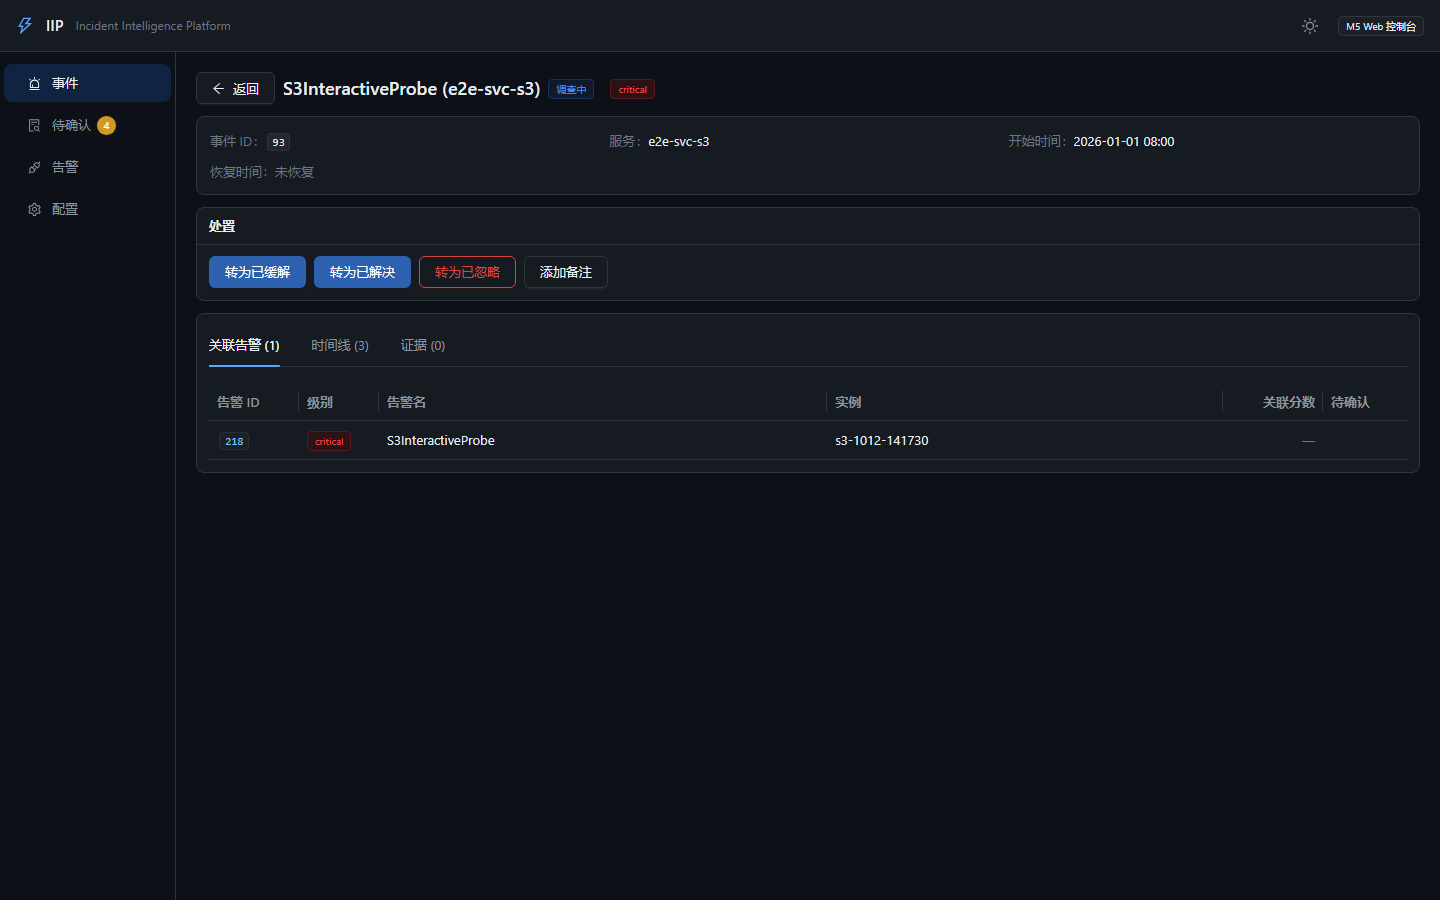
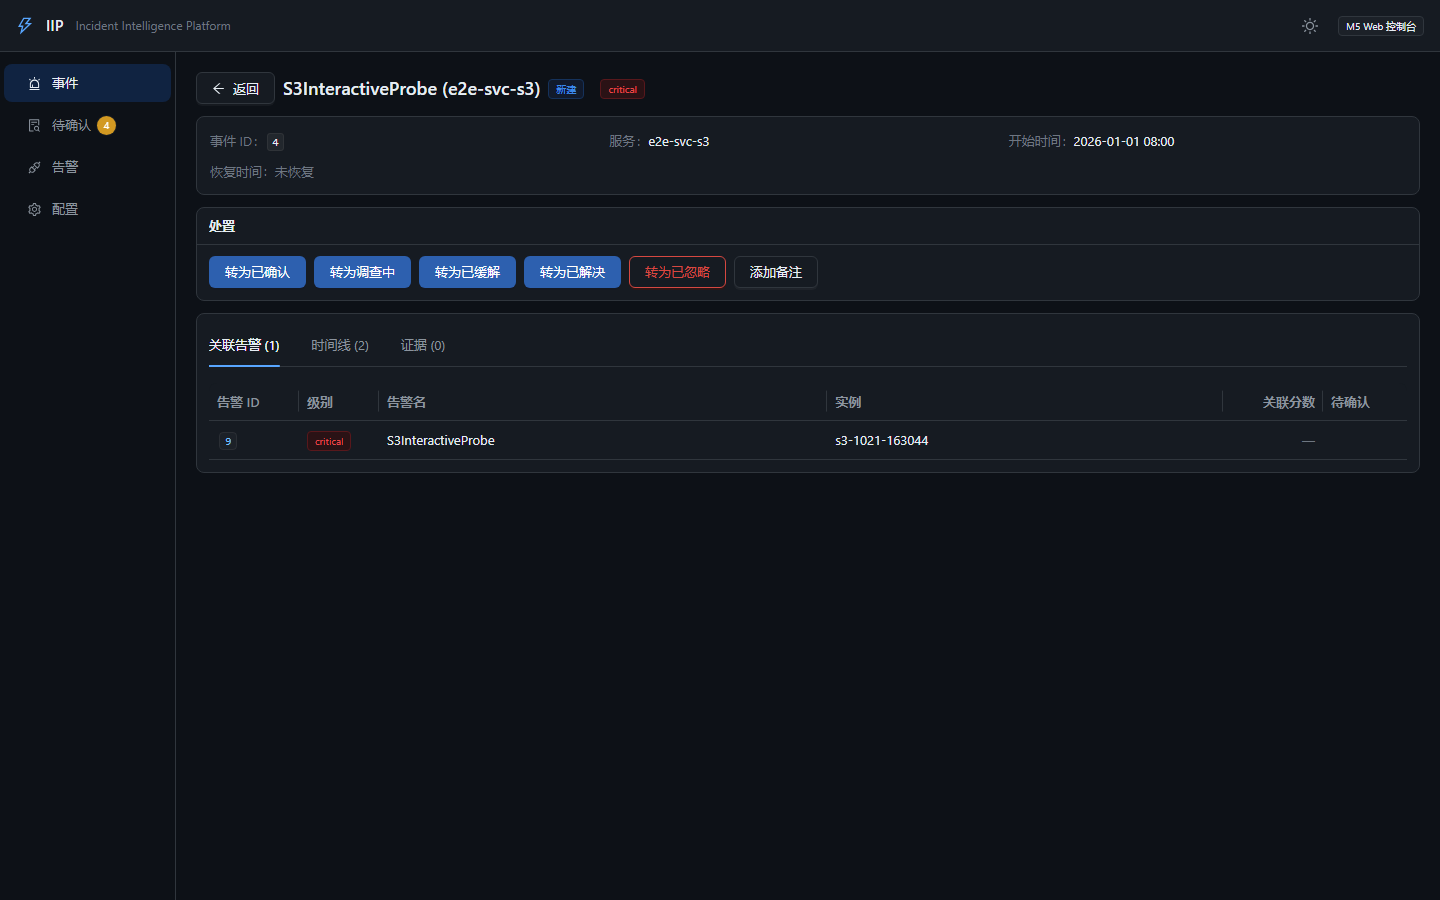
fix(verify): 修 verify-images 两处判据假红 + IIP_HTTP_PORT 驱动端口 override
- T7.5 接线判据改按包聚合读产品源码：T7.8 拆文件后 flag 注册搬去
  config_load.go、装配搬去 worker_registry.go，钉死 config.go/main.go
  的判据全线假红（4 条红而 grep 全源一抓就着）
- worker --help 判据不再断言 rc==0：pflag ContinueOnError 的 ErrHelp
  语义是 exit 1，usage 完整打印即产品正确，只绑两行 flag 内容
- IIP_HTTP_PORT 现驱动 compose 端口映射（临时 override，down 后删）：
  8080 被 OsSwitch RTS 原型占用时可选端口跑完整容器链路
- .gitignore 补 _*.json（_verify_runtime.json 与 _*.txt 同类运行产物）

验证：98 断言同卷/净卷两遍全绿；check-binaries PASS；
verify-runtime 45 PASS/0 FAIL/0 BLOCKED

diff --git a/scripts/verify-images.py b/scripts/verify-images.py
@@ -158,8 +158,40 @@ def docker(*args: str, timeout: int = 900):
     return run([DOCKER, *args], timeout=timeout)
 
 
+# HTTP_PORT != 8080 时由 _ensure_port_override() 生成；为 None 时 compose()
+# 退化为只用基文件，与历史行为逐字节一致。
+OVERRIDE_FILE = None
+
+
 def compose(*args: str, timeout: int = 900):
-    return docker("compose", "-f", COMPOSE_FILE, *args, timeout=timeout)
+    files = ["-f", COMPOSE_FILE]
+    if OVERRIDE_FILE:
+        files += ["-f", OVERRIDE_FILE]
+    return docker("compose", *(files + list(args)), timeout=timeout)
+
+
+def _ensure_port_override() -> None:
+    """HTTP_PORT != 8080 时生成 compose override，驱动宿主机端口映射。
+
+    背景（2026-10-21 S7）：8080 被用户另一个自研项目（OsSwitch RTS 原型，
+    python -m http.server）长期占用，而 compose 基文件写死 8080:8080，
+    脚本除了退出别无选择 —— 尽管 IIP_HTTP_PORT 的文档写明它是
+    「宿主机映射端口」。本函数让这个变量名副其实：既驱动脚本的 curl
+    目标，也驱动 compose 映射。override 的 ports 整体替换基文件映射，
+    故基文件零改动；文件是验收临时产物，__main__ 的 finally 里删除。
+    """
+    global OVERRIDE_FILE
+    if HTTP_PORT == 8080:
+        return
+    path = os.path.join(PROJ, "_compose_port_override.yml")
+    with open(path, "w", encoding="utf-8") as fh:
+        fh.write("# verify-images.py 自动生成的临时 override（IIP_HTTP_PORT=%d）\n"
+                 % HTTP_PORT)
+        fh.write("# 把 iip-server 的宿主机端口映射从 8080 改到 %d；勿手改，验收结束自动删除。\n"
+                 % HTTP_PORT)
+        fh.write("services:\n  iip-server:\n    ports:\n      - \"%d:8080\"\n"
+                 % HTTP_PORT)
+    OVERRIDE_FILE = path
 
 
 # -------------------------------------------------------------------- http
@@ -439,8 +471,8 @@ def t75_static_checks() -> None:
     #   config 注册 flag（用户能配）→ 装配读取并构造（配了能用）→
     #   实现文件存在（构造真有逻辑）。只 grep 其中一处会发现不了
     # 「flag 在、装配忘了传」这类真实缺陷。
-    cfg_go = os.path.join(PROJ, "internal", "config", "config.go")
-    main_go = os.path.join(PROJ, "cmd", "iip-worker", "main.go")
+    cfg_dir = os.path.join(PROJ, "internal", "config")
+    worker_dir = os.path.join(PROJ, "cmd", "iip-worker")
     tls_go = os.path.join(PROJ, "internal", "collectors", "tls.go")
     collectors_go = os.path.join(PROJ, "internal", "collectors", "collectors.go")
 
@@ -448,7 +480,25 @@ def t75_static_checks() -> None:
         with open(p, encoding="utf-8") as f:
             return f.read()
 
-    cfg_src, main_src = _read(cfg_go), _read(main_go)
+    def _read_pkg(d: str) -> str:
+        """聚合读一个包的**产品**源码（不含 _test.go）。
+
+        T7.8 单文件门禁把 config.go / iip-worker/main.go 拆成多文件后，
+        钉死单文件路径的判据全线假红：flag 注册搬去了 config_load.go、
+        装配搬去了 worker_registry.go，而判据还在读拆分前的文件名
+        （2026-10-21 S7 实测：4 条接线判据全红，而 grep 全源一抓就着）。
+        判据的本意是「该组件是否注册/接线」这个语义，那就按包聚合读 ——
+        文件再怎么拆，语义判据不动。不含 _test.go：测试里出现字面量
+        证明不了产品接线（那只证明测试引用了它）。
+        """
+        parts = []
+        for fn in sorted(os.listdir(d)):
+            if fn.endswith(".go") and not fn.endswith("_test.go"):
+                with open(os.path.join(d, fn), encoding="utf-8") as f:
+                    parts.append(f.read())
+        return "\n".join(parts)
+
+    cfg_src, main_src = _read_pkg(cfg_dir), _read_pkg(worker_dir)
     check("config 注册 evidence-tls-insecure flag（T7.5）",
           '"evidence-tls-insecure"' in cfg_src)
     check("config 注册 evidence-tls-ca-file flag（T7.5）",
@@ -492,6 +542,11 @@ def main() -> int:
     # ---------------------------------------------------------- 0. 前置
     # T7.5 静态判据放最前：daemon 不在时它照样能跑（见函数注释）。
     t75_static_checks()
+    # 端口 override 也要尽早生成：main() 的任何早退路径都会走进 __main__ 的
+    # finally（那里要 compose down），override 必须先于它存在。
+    _ensure_port_override()
+    if OVERRIDE_FILE:
+        w("### [0] 端口 override：宿主机 %d -> 容器 8080（IIP_HTTP_PORT）" % HTTP_PORT)
     w("### [0] 前置检查")
     if not DOCKER:
         w("  FATAL: 找不到 docker 可执行文件")
@@ -1138,14 +1193,22 @@ def main() -> int:
     #
     # 探针形态：docker exec 跑 `--help`（distroless 无 shell，
     # exec 直接指定二进制路径即可，不需要 sh -c）。
+    #
+    # **退出码不纳入断言**：worker 用 pflag（ContinueOnError），--help 时
+    # Parse 返回 pflag.ErrHelp，main 随之 os.Exit(1) —— 退出码非 0 是
+    # pflag 帮助语义的既定行为，不是二进制坏了（2026-10-21 S7 实证：
+    # usage 完整打印、两个 flag 行都在，rc=1；此前断言 rc_h==0 与
+    # pflag 语义不兼容，恒假红）。绑 usage 内容本身就是强断言：
+    # 两行都在才绿；exec 失败/容器不在时 len=0 照样红。
     _wc = svc_container("iip-worker")
     rc_h, out_h = docker("exec", _wc, "/usr/local/bin/iip-worker",
                          "--help", timeout=60)
     _tls_flags = [ln.strip() for ln in out_h.splitlines()
                   if "evidence-tls" in ln]
     check("worker 二进制 --help 暴露 evidence-tls-insecure / evidence-tls-ca-file（T7.5）",
-          rc_h == 0 and len(_tls_flags) >= 2,
-          "匹配到 %d 条 evidence-tls flag 行" % len(_tls_flags))
+          len(_tls_flags) >= 2,
+          "匹配到 %d 条 evidence-tls flag 行（--help rc=%d 不纳入断言）"
+          % (len(_tls_flags), rc_h))
 
 
     # 4.7.4c M6：**开关打开时真二进制会注册**（验「启用路径」而非只验禁用路径）。
@@ -1992,6 +2055,14 @@ if __name__ == "__main__":
             w("### 清理：compose down（保留 named volume 数据）")
             rc, out = compose("--profile", "app", "down", timeout=300)
             w("  rc=%s %s" % (rc, out[:200]))
+        # 顺序不能反：override 是 compose 命令的输入，删它必须在最后一次
+        # compose 调用（上面的 down）之后，否则 down 找不到服务定义。
+        if OVERRIDE_FILE and os.path.exists(OVERRIDE_FILE):
+            try:
+                os.remove(OVERRIDE_FILE)
+                w("  已删除临时 override：%s" % os.path.basename(OVERRIDE_FILE))
+            except OSError as e:
+                w("  override 删除失败（可手动删）：%s (%s)" % (OVERRIDE_FILE, e))
         try:
             with open(REPORT, "w", encoding="utf-8") as fh:
                 fh.write("\n".join(L))
